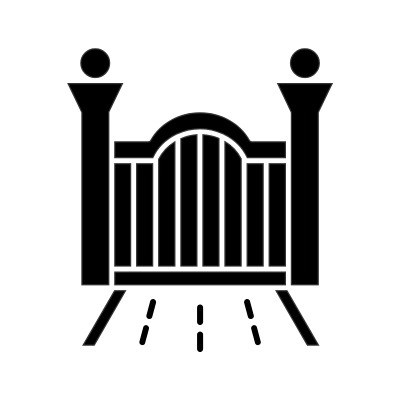
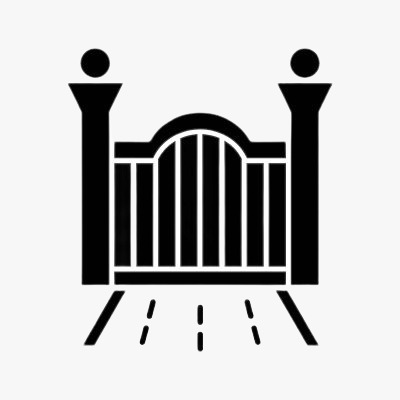
Updated website

diff --git a/frontend/src/components/Navbar/Navbar.css b/frontend/src/components/Navbar/Navbar.css
@@ -12,10 +12,10 @@
     top:0;
     left:0;
     width:100%;
-    background:transparent;
     z-index:9999;
-    transition:all .35s ease;
+    background:transparent;
     box-shadow:none;
+    transition:all .35s ease;
 }
 
 .navbar.sticky{
@@ -320,54 +320,87 @@
 @media (max-width:576px){
 
     .navbar{
+
         height:75px;
+
+        background:transparent;
+
+        box-shadow:none;
+
+    }
+
+    .navbar.sticky{
+
+        background:rgba(255,255,255,.96);
+
+        backdrop-filter:blur(12px);
+
+        -webkit-backdrop-filter:blur(12px);
+
+        box-shadow:0 8px 20px rgba(0,0,0,.12);
+
     }
 
     .container-custom{
+
         width:100%;
+
         padding:0 15px;
+
     }
 
     .navbar-wrapper{
-        height:75px;
-    }
 
-    /* Logo */
+        height:75px;
+
+    }
 
     .logo img{
-        width:68px;
-        height:68px;
-    }
 
-    /* Right Side */
+        width:68px;
+
+        height:68px;
+
+    }
 
     .navbar-right{
-        gap:12px;
-    }
 
-    /* Phone */
+        gap:12px;
+
+    }
 
     .phone-icon{
-        display:none;
-    }
 
-    /* Hamburger */
+        display:none;
+
+    }
 
     .menu-btn{
+
         width:36px;
+
         height:36px;
+
         font-size:26px;
+
+        color:#bd992a;   /* White icon over hero image */
+
     }
 
-    /* Mobile Menu */
-
     .mobile-menu{
+
         top:75px;
+
+        background:#fff;
+
     }
 
     .mobile-menu a{
+
         padding:15px 18px;
+
         font-size:15px;
+
     }
 
 }

diff --git a/frontend/src/components/hero/Hero.css b/frontend/src/components/hero/Hero.css
@@ -1,7 +1,11 @@
 /* ===========================
    Hero Section
 =========================== */
-
+.navbar.sticky{
+    background:rgba(255,255,255,.95);
+    backdrop-filter:blur(12px);
+   
+}
 .hero{
     position:relative;
     width:100%;
@@ -10,7 +14,25 @@
     display:flex;
     align-items:center;
     overflow:hidden;
-    margin-top:130px;
+    
+    margin-top:0;
+    padding-top:130px;   /* Same as navbar height */
+}
+
+
+.hero-bg{
+    position:absolute;
+    top:0;
+    left:0;
+    width:100%;
+    height:100%;
+    z-index:1;
+}
+
+.hero-bg img{
+    width:100%;
+    height:100%;
+    object-fit:cover;
 }
 .hero .container-custom{
     width:100%;
@@ -208,14 +230,17 @@
 
 .hero{
 
-    margin-top:72px;
+    margin-top:0;
 
-   height:380px;
-min-height:380px;  /* Remove the large height */
+    padding-top:75px;   /* Same as navbar height */
 
-    padding:20px 15px;
+    height:380px;
+
+    min-height:380px;
 
     text-align:center;
+
+}
 
 }
 
@@ -283,7 +308,7 @@ min-height:380px;  /* Remove the large height */
 
 }
 
-}
+
 /* =====================================
    Floating Contact
 ===================================== */